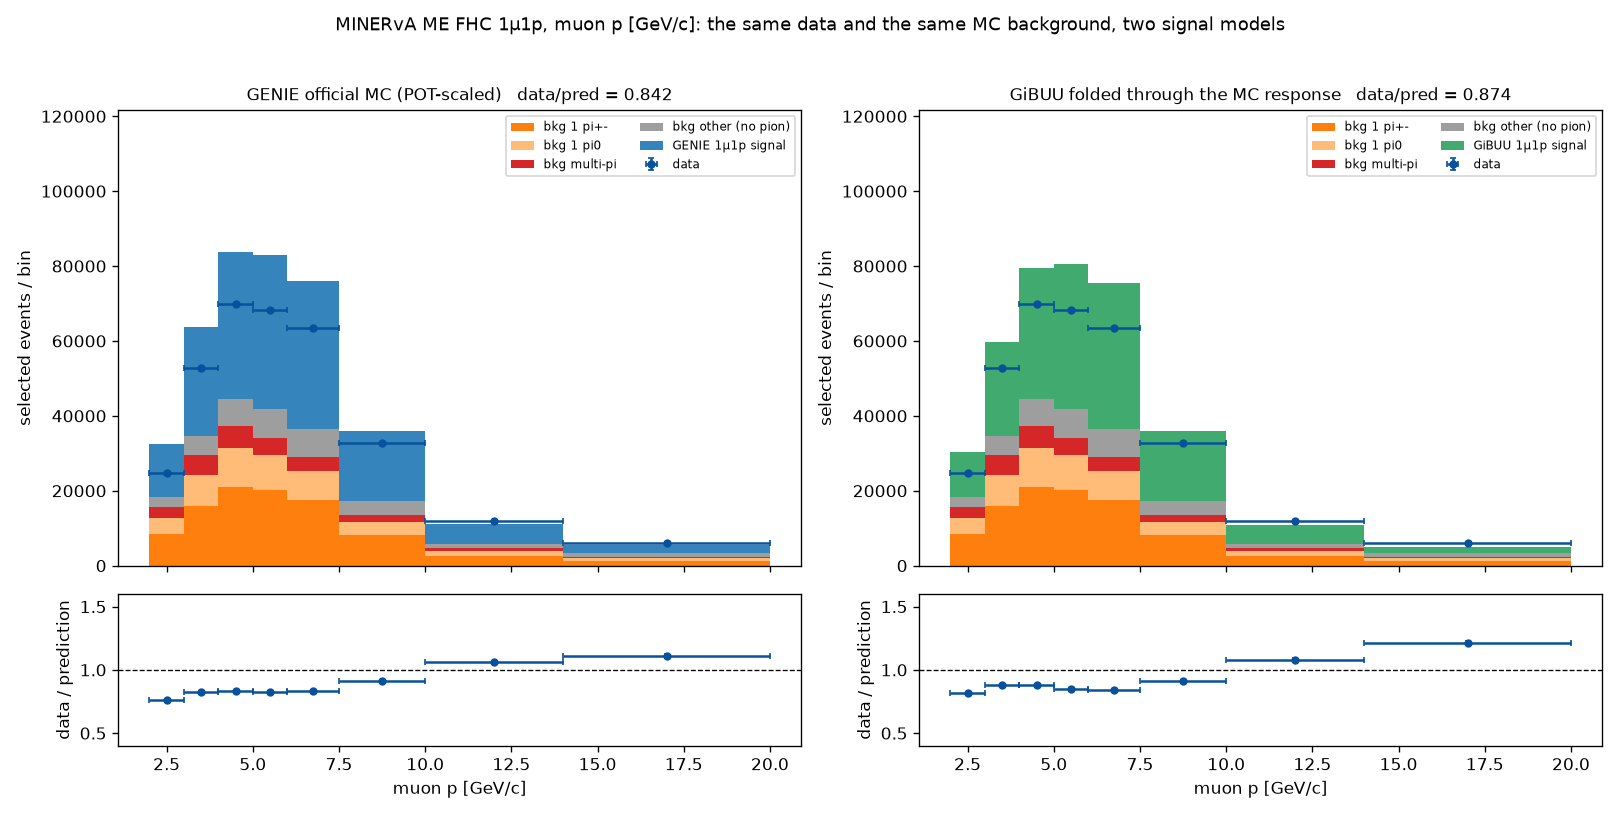
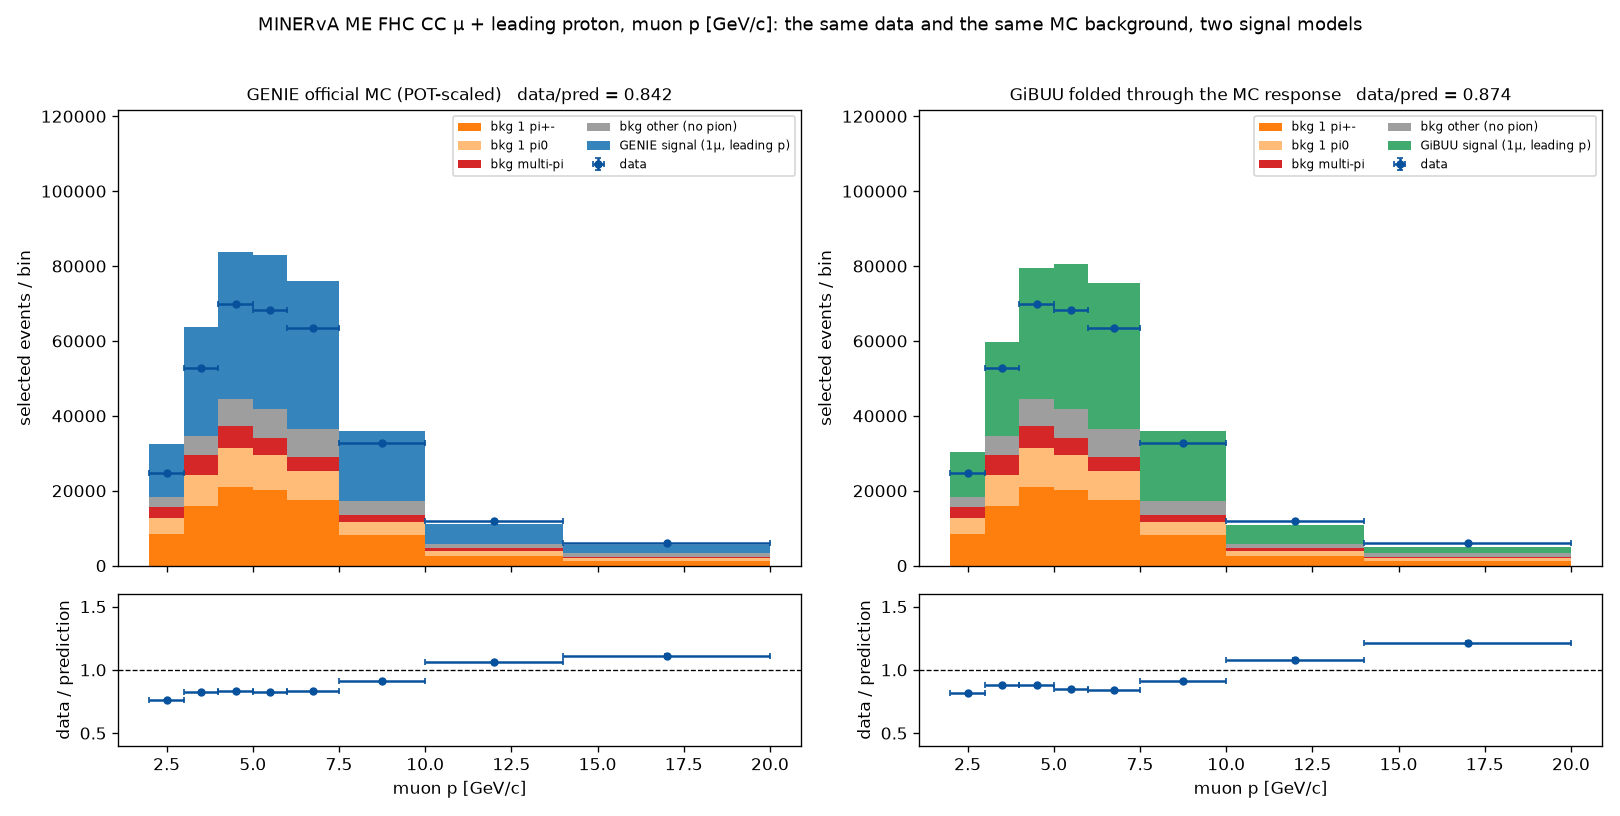
Report: the sample is one muon plus the leading proton, not 1mu1p
The selection asks for at least one proton in 0.5-1.1 GeV/c below 70 deg and
builds the transverse-imbalance variables from the highest-momentum one, a
choice the paper makes explicitly because secondary protons may not be
reconstructed. Calling it "1mu1p" overstated the final state. The title, the
figure banner and the signal legends now say muon + leading proton, and a new
paragraph states the multiplicity and notes that the 1mu1p in channel and run
paths is only the manifest identifier.

Re-rendering had dropped two hand-written sections the script never produced,
so they now live in the renderer and regenerate with everything else. Their
numbers are derived rather than typed in: the GENIE column from
composition_int_type_fiducial of the truth-signal run, the GiBUU column
recomputed from the cached sample restricted to the channel signal and
weighted. Both reproduce the previously published shares exactly. The averaged
signal counts are now the exact means, and the GENIE data/prediction entry
reads 0.841, the across-grid average the row claims and the value already in
the summary line, instead of the single-grid 0.842.

Also removed a stray .replace that bound to the whole concatenated Sources
string and ate the comma after the cross section.

Claude-Session: https://claude.ai/code/session_01RsKDgBGBAfg8hdaAriDoeB

Changed region(s): [[0.1543, 0.0, 0.8333, 0.0613], [0.7716, 0.1225, 0.9877, 0.2145], [0.2778, 0.1225, 0.4938, 0.2145]]

diff --git a/report/make_genie_gibuu_comparison.py b/report/make_genie_gibuu_comparison.py
@@ -1,11 +1,15 @@
 #!/usr/bin/env python3
 """Side-by-side figures and report: the official GENIE MC and the GiBUU prediction against the same
-reconstructed data, on the released 1mu1p grids.
+reconstructed data, on the released muon + leading-proton grids.
 
     python report/make_genie_gibuu_comparison.py \
         --selection runs/<date>_selection_minerva_me_ccqelike_1mu1p_FHC \
         --overlay   runs/<date>_gibuu_..._all_3 \
+        --signal    runs/<date>_signal_minerva_me_ccqelike_1mu1p_FHC \
         --out report/GENIE_vs_GiBUU_FHC.md [--tag cmp]
+
+Run it with PYTHONPATH set to the repo root: the process-composition table loads the channel and the
+cached GiBUU sample through `ndp`.
 
 Both panels of a figure are built the same way: the identical data points, the identical MC background
 stacked by category, and on top of it the signal predicted by that panel's generator — GENIE's own
@@ -47,7 +51,7 @@ def panel(ax, axr, edges, data, bkg_by_cat, signal, color, title, xlabel, ymax):
             ax.bar(edges[:-1], v, width=widths, bottom=bottom, align="edge", color=BKG_COLORS[c], label=c, lw=0)
             bottom += v
     ax.bar(edges[:-1], signal, width=widths, bottom=bottom, align="edge", color=color, alpha=0.9, lw=0,
-           label=f"{title.split()[0]} 1μ1p signal")
+           label=f"{title.split()[0]} signal (1μ, leading p)")
     pred = bottom + signal
     ax.errorbar(centres, data, xerr=widths / 2, yerr=np.sqrt(np.maximum(data, 0)), fmt="o", ms=4,
                 color=DATA_COLOR, capsize=2, label="data", zorder=5)
@@ -77,10 +81,31 @@ def make_figure(name, genie, gibuu, out: Path) -> tuple:
                       "GENIE official MC (POT-scaled)", lab, ymax)
     r_b, rb_b = panel(axes[0, 1], axes[1, 1], edges, data, cats, gibuu_sig, SIG_COLOR["GiBUU"],
                       "GiBUU folded through the MC response", lab, ymax)
-    fig.suptitle(f"MINERvA ME FHC 1μ1p, {lab}: the same data and the same MC background, two signal models", fontsize=11)
+    fig.suptitle(f"MINERvA ME FHC CC μ + leading proton, {lab}: the same data and the same MC background, two signal models", fontsize=11)
     fig.tight_layout(rect=(0, 0, 1, 0.96)); out.parent.mkdir(parents=True, exist_ok=True)
     fig.savefig(out, dpi=120); plt.close(fig)
     return (r_g, r_b, rb_g, rb_b, float(genie_sig.sum()), float(gibuu_sig.sum()), float(sum(cats.values()).sum()), float(data.sum()))
+
+
+def composition(signal_run: Path, overlay_run: Path):
+    """Process shares of the signal, both sides read from run directories (never typed in).
+
+    GENIE: `composition_int_type_fiducial` of the `ndp signal` run (share of the fiducial truth signal).
+    GiBUU: the cached sample named in the overlay run's provenance, restricted to the channel's signal,
+    weighted, i.e. the share of the signal cross section.
+    """
+    from ndp.events import TruthTable, INT_TYPES
+    from ndp.channels.registry import load_channel
+
+    sc = json.loads((overlay_run / "scorecard.json").read_text())
+    g = {k: v["fraction"] for k, v in
+         json.loads((signal_run / "summary.json").read_text())["composition_int_type_fiducial"].items()}
+    ch = load_channel(sc["channel"]["name"])
+    t = TruthTable.load(Path(sc["provenance"]["source"]) / "truth.npz")
+    w, m, it = t["weight"], ch.is_signal(t), np.asarray(t["int_type"])
+    tot = float(w[m].sum())
+    b = {INT_TYPES.get(int(c), str(c)): float(w[m & (it == c)].sum()) / tot for c in sorted(set(it[m].tolist()))}
+    return g, b
 
 
 def shape_stats(ratio_per_bin, norm):
@@ -93,6 +118,7 @@ def main() -> int:
     ap = argparse.ArgumentParser(description=__doc__, formatter_class=argparse.RawDescriptionHelpFormatter)
     ap.add_argument("--selection", required=True); ap.add_argument("--overlay", required=True)
     ap.add_argument("--out", required=True); ap.add_argument("--tag", default="cmp")
+    ap.add_argument("--signal", help="the `ndp signal` run for the GENIE process composition; the section is skipped without it")
     a = ap.parse_args()
     sel = Path(a.selection).resolve(); ov = Path(a.overlay).resolve(); out = Path(a.out).resolve()
     figs = out.parent / "figs"; figs.mkdir(parents=True, exist_ok=True)
@@ -110,19 +136,28 @@ def main() -> int:
         r_g, r_b, rb_g, rb_b, sig_g, sig_b, bkg, dat = make_figure(n, g, b, f)
         sg_rms, sg_max = shape_stats(rb_g, r_g); sb_rms, sb_max = shape_stats(rb_b, r_b)
         rows.append({"grid": n, "data": dat, "bkg": bkg, "sig_genie": sig_g, "sig_gibuu": sig_b,
-                     "r_genie": r_g, "r_gibuu": r_b, "shape_genie": (sg_rms, sg_max), "shape_gibuu": (sb_rms, sb_max)})
+                     "r_genie": r_g, "r_gibuu": r_b, "shape_genie": (sg_rms, sg_max), "shape_gibuu": (sb_rms, sb_max),
+                     "bin1_genie": float(rb_g[0]), "bin1_gibuu": float(rb_b[0]),
+                     "bin1_hi": float(np.asarray(g["edges"], float)[1])})
         made.append(f.name)
 
-    L = [f"# GENIE and GiBUU side by side against the MINERvA 1μ1p data", "",
+    L = [f"# GENIE and GiBUU side by side against the MINERvA muon + leading-proton data", "",
+         f"**The sample.** This is not an exclusive one-muon-one-proton final state. The signal asks for a forward muon "
+         f"(2–20 GeV/c, θ < 17°) and **at least one** proton in 0.5–1.1 GeV/c below 70°, vetoing mesons, baryons heavier "
+         f"than the neutron and photons above 10 MeV; an event with a second proton in the window is kept. The muon and the "
+         f"**highest-momentum** proton define the transverse-imbalance variables, a choice the paper makes explicitly because it "
+         f"“is not changed based on the number of protons in the final state since secondary protons may not be reconstructed” "
+         f"(arXiv:2503.15047). So every signal block below is one muon plus the leading proton, and the `1mu1p` in the channel "
+         f"and run paths is only the identifier those manifests were created with, not a statement of proton multiplicity.", "",
          f"**What is plotted.** Every figure has two panels built identically: the same reconstructed data points, the same "
-         f"official-MC background stacked by category, and on top of it the 1μ1p signal predicted by one generator — the official "
+         f"official-MC background stacked by category, and on top of it the signal predicted by one generator — the official "
          f"GENIE MC scaled by POT on the left, GiBUU folded through the detector response learned from that same MC on the right. "
          f"Only the signal block differs between the panels, so the comparison is visual and direct. Both panels share the vertical scale.", "",
          f"**Sources.** GENIE: `{sel.name}`. GiBUU: `{ov.name}` "
          f"(σ_CC = {ots['meta'].get('sigma_flux_avg_per_nucleon_cm2', float('nan')):.4e} cm²/nucleon, "
          f"{ots['summary']['n_events']:,} events, {ots['meta'].get('flux_fraction_covered', float('nan')):.3f} of the flux). "
          f"Rendered by `report/make_genie_gibuu_comparison.py`; the physics discussion is in "
-         f"`report/GiBUU_reco_comparison_FHC.md`.".replace(",", " ", 1), "", "---", "",
+         f"`report/GiBUU_reco_comparison_FHC.md`.", "", "---", "",
          "## Summary", "",
          "| grid | data | background | GENIE signal | GiBUU signal | data/GENIE | data/GiBUU | GENIE shape rms | GiBUU shape rms |",
          "|---|---|---|---|---|---|---|---|---|"]
@@ -145,7 +180,37 @@ def main() -> int:
           "- Both generators sit above the data. That offset is shared with the MC that supplies the background and the response, "
           "which is itself untuned, so it should not be read as a measured discrepancy of either generator.",
           "- The ratio panels are where the models separate: look at the first bins of p_n, δp_T and δp_L for the Fermi-motion peak, "
-          "and at the low end of the muon angle and muon p_T for the missing low-Q² suppression.", ""]
+          "and at the low end of the muon angle and muon p_T for the missing low-Q² suppression.",
+          "- The axes use the paper's released binning, so several grids end in one or two very wide bins (p_n to 6 GeV/c, "
+          "δp_Ty to 3 GeV/c). Those bins hold few events and squeeze the interesting region; read them together with the numbers "
+          "in the summary table.",
+          "- The two panels of a figure share the vertical scale, so the height difference between the coloured signal blocks is "
+          "the difference between the models at a glance.", ""]
+
+    by = {r["grid"]: r for r in rows}
+    if a.signal:
+        gen_comp, buu_comp = composition(Path(a.signal).resolve(), ov)
+        pretty = [("QE", "quasi-elastic"), ("RES", "resonance with the pion absorbed"), ("MEC", "2p2h"), ("DIS", "deep inelastic")]
+        L += ["## Where the two models actually differ", "",
+              "| | GENIE | GiBUU |", "|---|---|---|",
+              f"| signal, averaged over the grids | {np.mean([r['sig_genie'] for r in rows]):,.0f} events | "
+              f"{np.mean([r['sig_gibuu'] for r in rows]):,.0f} events |",
+              f"| data / prediction | {mg:.3f} | {mb:.3f} |"]
+        for key, label in pretty:
+            if key in gen_comp or key in buu_comp:
+                L.append(f"| {label} | {100 * gen_comp.get(key, float('nan')):.1f} % | {100 * buu_comp.get(key, float('nan')):.1f} % |")
+        L += ["", f"The GENIE column is the share of the **fiducial truth signal** in `{Path(a.signal).name}`; the GiBUU column is "
+              f"the share of the **signal cross section** in the cached sample behind `{ov.name}`. GiBUU builds a similar total out "
+              f"of a visibly different mixture, and that is what the ratio panels show.", ""]
+
+    al, dt, pn = by.get("alpha"), by.get("dpt"), by.get("pn")
+    if al and dt and pn:
+        L += [f"The clearest consequences: GiBUU describes δα_T better than GENIE (shape rms {al['shape_gibuu'][0]:.3f} against "
+              f"{al['shape_genie'][0]:.3f}) and is the milder of the two in the low-Q² region, while GENIE describes δp_T and p_n "
+              f"better ({dt['shape_genie'][0]:.3f} and {pn['shape_genie'][0]:.3f} against {dt['shape_gibuu'][0]:.3f} and "
+              f"{pn['shape_gibuu'][0]:.3f}). In the first p_n bin, below {pn['bin1_hi']:.2g} GeV/c, the data stand "
+              f"{100 * (pn['bin1_gibuu'] - 1):.0f} % above GiBUU and {100 * (1 - pn['bin1_genie']):.0f} % below GENIE, a genuine "
+              f"reversal at the Fermi-motion peak.", ""]
     out.write_text("\n".join(L) + "\n")
     print(f"wrote {out} with {len(made)} side-by-side figures")
     return 0

diff --git a/report/GENIE_vs_GiBUU_FHC.md b/report/GENIE_vs_GiBUU_FHC.md
@@ -1,8 +1,10 @@
-# GENIE and GiBUU side by side against the MINERvA 1μ1p data
+# GENIE and GiBUU side by side against the MINERvA muon + leading-proton data
 
-**What is plotted.** Every figure has two panels built identically: the same reconstructed data points, the same official-MC background stacked by category, and on top of it the 1μ1p signal predicted by one generator — the official GENIE MC scaled by POT on the left, GiBUU folded through the detector response learned from that same MC on the right. Only the signal block differs between the panels, so the comparison is visual and direct. Both panels share the vertical scale.
+**The sample.** This is not an exclusive one-muon-one-proton final state. The signal asks for a forward muon (2–20 GeV/c, θ < 17°) and **at least one** proton in 0.5–1.1 GeV/c below 70°, vetoing mesons, baryons heavier than the neutron and photons above 10 MeV; an event with a second proton in the window is kept. The muon and the **highest-momentum** proton define the transverse-imbalance variables, a choice the paper makes explicitly because it “is not changed based on the number of protons in the final state since secondary protons may not be reconstructed” (arXiv:2503.15047). So every signal block below is one muon plus the leading proton, and the `1mu1p` in the channel and run paths is only the identifier those manifests were created with, not a statement of proton multiplicity.
 
-**Sources.** GENIE: `2026-09-14_selection_minerva_me_ccqelike_1mu1p_FHC`. GiBUU: `2026-09-16_gibuu_2025_me_fhc_c12__minerva_me_ccqelike_1mu1p__all_3` (σ_CC = 4.1245e-38 cm²/nucleon  979,395 events, 0.946 of the flux). Rendered by `report/make_genie_gibuu_comparison.py`; the physics discussion is in `report/GiBUU_reco_comparison_FHC.md`.
+**What is plotted.** Every figure has two panels built identically: the same reconstructed data points, the same official-MC background stacked by category, and on top of it the signal predicted by one generator — the official GENIE MC scaled by POT on the left, GiBUU folded through the detector response learned from that same MC on the right. Only the signal block differs between the panels, so the comparison is visual and direct. Both panels share the vertical scale.
+
+**Sources.** GENIE: `2026-09-14_selection_minerva_me_ccqelike_1mu1p_FHC`. GiBUU: `2026-09-16_gibuu_2025_me_fhc_c12__minerva_me_ccqelike_1mu1p__all_3` (σ_CC = 4.1245e-38 cm²/nucleon, 979,395 events, 0.946 of the flux). Rendered by `report/make_genie_gibuu_comparison.py`; the physics discussion is in `report/GiBUU_reco_comparison_FHC.md`.
 
 ---
 
@@ -125,16 +127,14 @@ Averaged over the 14 released grids: data/GENIE = 0.841, data/GiBUU = 0.873. The
 
 | | GENIE | GiBUU |
 |---|---|---|
-| signal, averaged over the grids | 189 000 events | 175 000 events |
-| data / prediction | 0.842 | 0.873 |
-| quasi-elastic share of the signal | 46.7 % | 36.7 % |
+| signal, averaged over the grids | 188,496 events | 174,296 events |
+| data / prediction | 0.841 | 0.873 |
+| quasi-elastic | 46.7 % | 36.7 % |
 | resonance with the pion absorbed | 25.5 % | 31.2 % |
 | 2p2h | 21.0 % | 16.5 % |
 | deep inelastic | 6.9 % | 15.6 % |
 
-GiBUU builds a similar total out of a visibly different mixture, and that is what the ratio panels
-show. The clearest consequences: GiBUU describes δα_T better than GENIE (shape rms 0.022 against
-0.059) and is the milder of the two in the low-Q² region, while GENIE describes δp_T and p_n better
-(0.018 and 0.070 against 0.072 and 0.194). At p_n below 0.1 GeV/c the data stand 32 % above GiBUU and
-27 % below GENIE, a genuine reversal at the Fermi-motion peak.
+The GENIE column is the share of the **fiducial truth signal** in `2026-09-14_signal_minerva_me_ccqelike_1mu1p_FHC`; the GiBUU column is the share of the **signal cross section** in the cached sample behind `2026-09-16_gibuu_2025_me_fhc_c12__minerva_me_ccqelike_1mu1p__all_3`. GiBUU builds a similar total out of a visibly different mixture, and that is what the ratio panels show.
+
+The clearest consequences: GiBUU describes δα_T better than GENIE (shape rms 0.022 against 0.059) and is the milder of the two in the low-Q² region, while GENIE describes δp_T and p_n better (0.018 and 0.070 against 0.072 and 0.194). In the first p_n bin, below 0.1 GeV/c, the data stand 32 % above GiBUU and 27 % below GENIE, a genuine reversal at the Fermi-motion peak.
 
